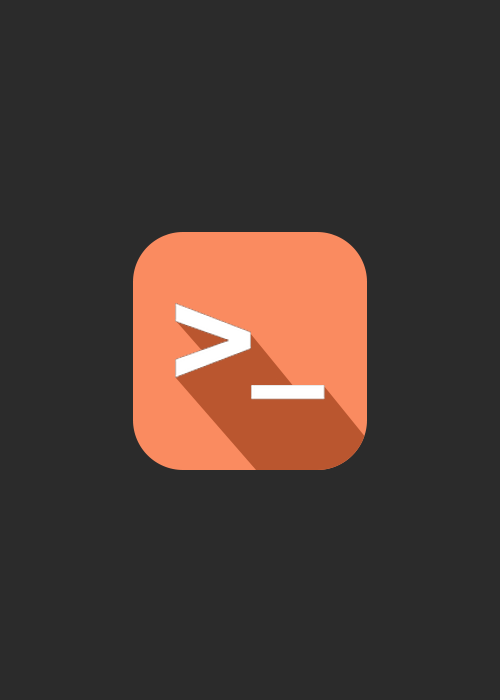
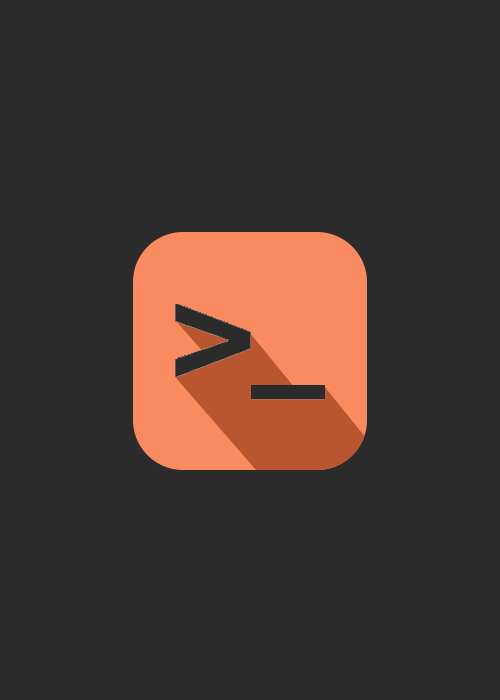
Updated modal picture and text

Changed region(s): [[0.33, 0.42, 0.51, 0.54], [0.48, 0.54, 0.66, 0.57]]

diff --git a/index.html b/index.html
@@ -183,12 +183,9 @@
                                     <div class="md-content">
                                         <h3>Odyssey</h3>
                                         <div>
-                                            <p>An iOS app with the aim of creating intuitive communication between presenters and their audiences.</p>
-                                            <ul>
-                                                <li><strong>Read:</strong> modal windows will probably tell you something important so don't forget to read what they say.</li>
-                                                <li><strong>Look:</strong> a modal window enjoys a certain kind of attention; just look at it and appreciate its presence.</li>
-                                                <li><strong>Close:</strong> click on the button below to close the modal.</li>
-                                            </ul>
+                                            <p>An Android app aimed at creating an easier way to share photos between friends going on vacations and road trips together.</p>
+                                            <p class="modal-para">A hackathon project for Spartahacks 2015, I worked on the camera side and getting a custom UI instead of the typical Android camera UI for the app. It was my first big undertaking in Android development and proved chalenging, but I managed to finally get it to work, albeit a bit too late into our 36 hour hackathon.</p>
+                                               
                                             <button class="md-close">Close me!</button>
                                         </div>
                                     </div>

diff --git a/css/modals.css b/css/modals.css
@@ -161,7 +161,7 @@
 	left: 0;
 	z-index: 1000;
 	opacity: 0;
-	background: rgba(143,27,15,0.8);
+	background: rgba(0, 0, 0, 0.6);
 	-webkit-transition: all 0.3s;
 	-moz-transition: all 0.3s;
 	transition: all 0.3s;
@@ -176,7 +176,7 @@
 /* Content styles */
 .md-content {
 	color: #fff;
-	background: #e74c3c;
+	background: #fa8b60;
 	position: relative;
 	border-radius: 3px;
 	margin: 0 auto;
@@ -197,21 +197,19 @@
 	padding: 15px 40px 30px;
 	margin: 0;
 	font-weight: 300;
-	font-size: 1.15em;
+	font-size: 1.20em;
 }
 
 .md-content > div p {
 	margin: 0;
 	padding: 10px 0;
+    font-size: 1.20em;
 }
 
-.md-content > div ul {
-	margin: 0;
-	padding: 0 0 30px 20px;
-}
-
-.md-content > div ul li {
-	padding: 5px 0;
+.md-content .modal-para {
+    padding-left: 40px;
+    padding-bottom: 30px;
+    font-size: 1.10em !important;
 }
 
 .md-content button {
